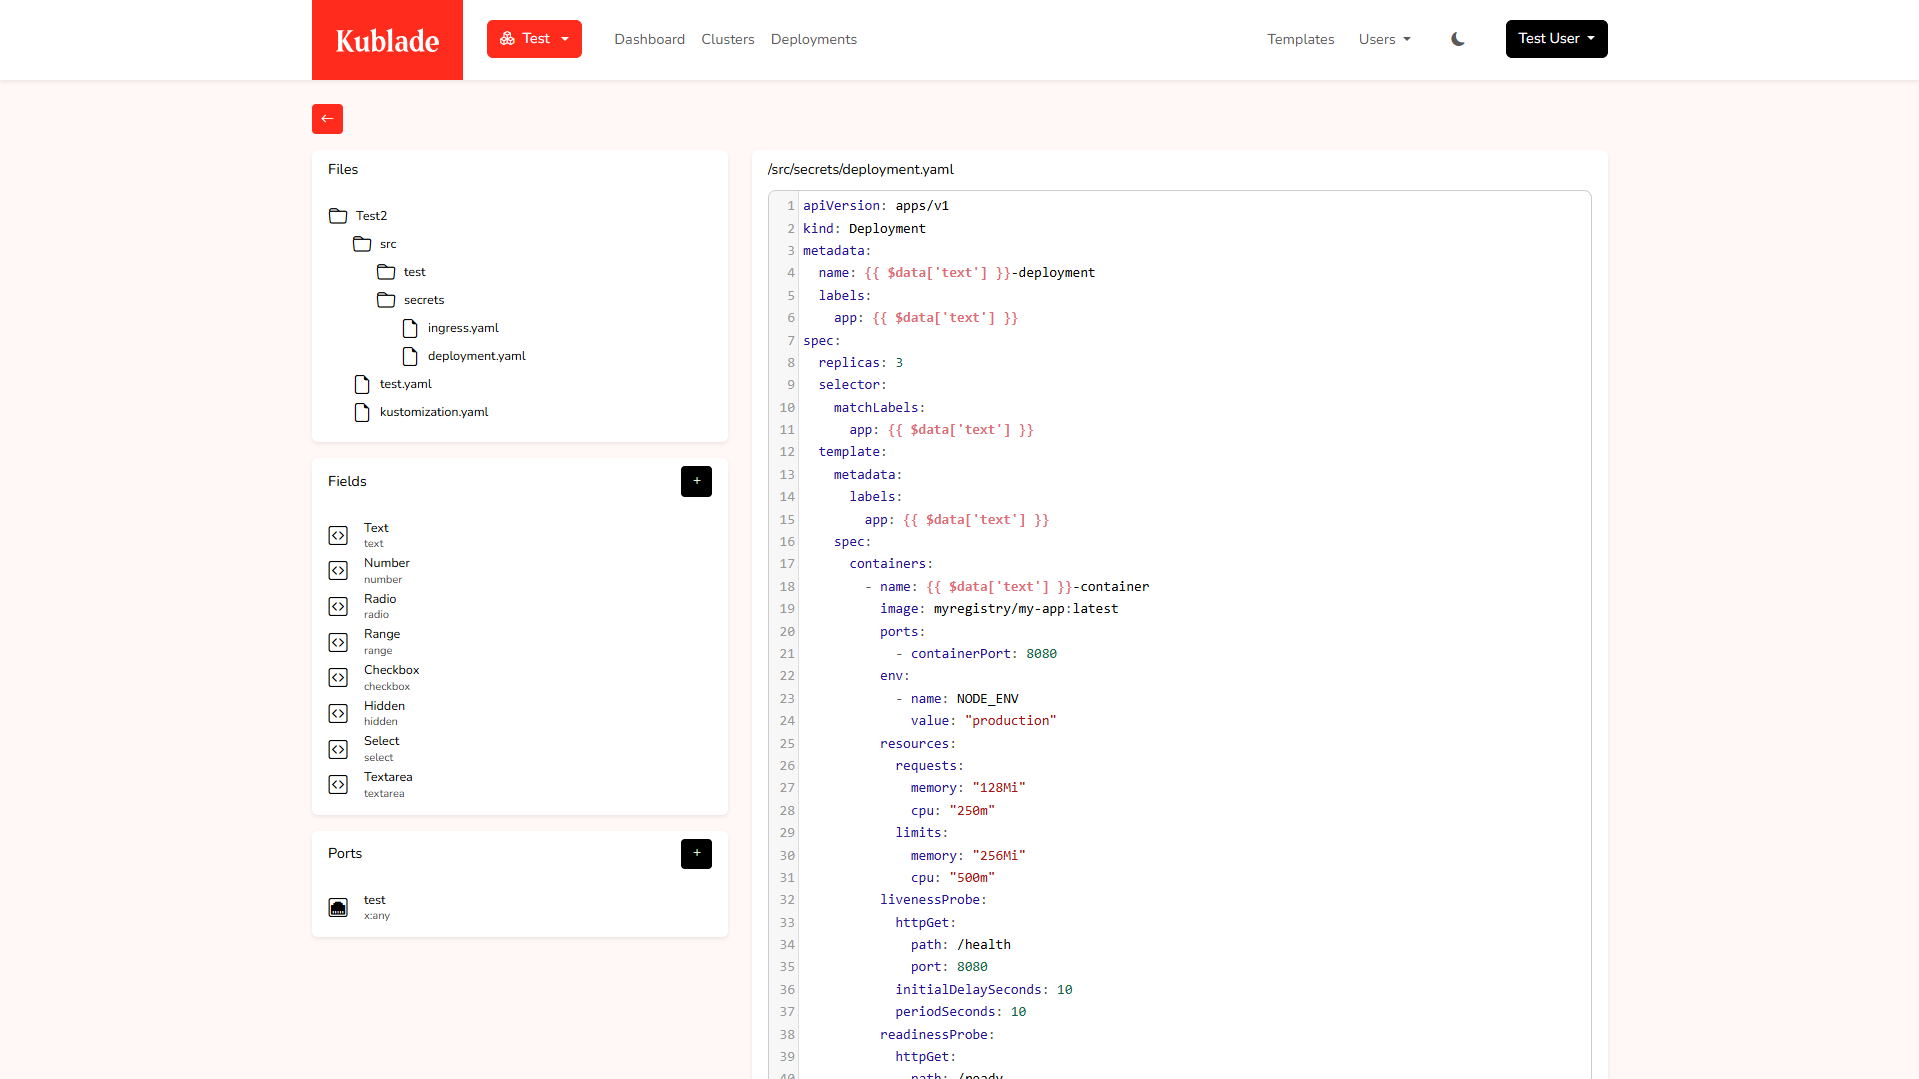
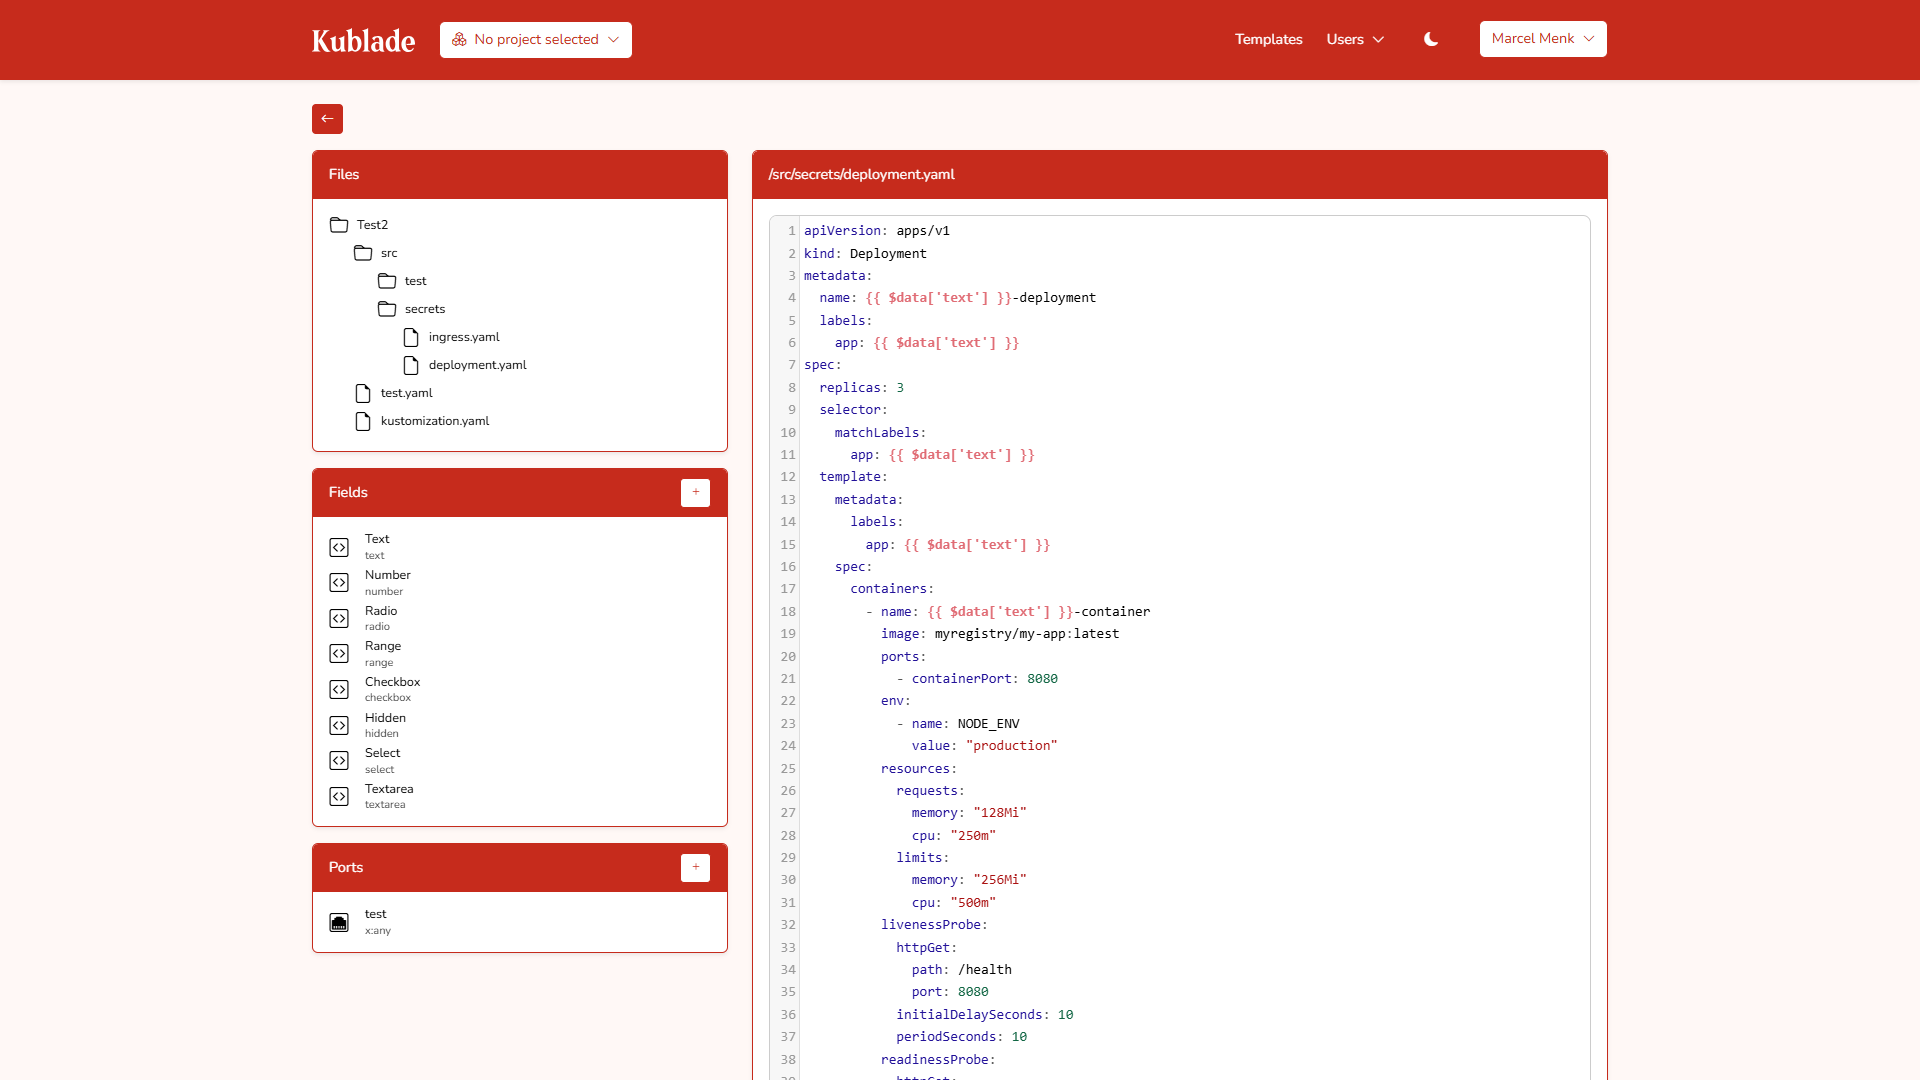
chore: modified color scheme

diff --git a/src/css/custom.css b/src/css/custom.css
@@ -6,13 +6,13 @@
 
 /* You can override the default Infima variables here. */
 :root {
-  --ifm-color-primary: #ff2b1c;
-  --ifm-color-primary-dark: #e62619;
-  --ifm-color-primary-darker: #cc2116;
-  --ifm-color-primary-darkest: #b31c13;
-  --ifm-color-primary-light: #ff4538;
-  --ifm-color-primary-lighter: #ff5e53;
-  --ifm-color-primary-lightest: #ff7a71;
+  --ifm-color-primary: #c62b1c;
+  --ifm-color-primary-dark: #b12617;
+  --ifm-color-primary-darker: #9c2114;
+  --ifm-color-primary-darkest: #801a10;
+  --ifm-color-primary-light: #d44e41;
+  --ifm-color-primary-lighter: #e07870;
+  --ifm-color-primary-lightest: #ed9f98;
   --ifm-code-font-size: 95%;
   --ifm-font-family-base: 'Nunito', sans-serif;
   --ifm-menu-color: #ffffff;
@@ -21,18 +21,18 @@
 }
 
 [data-theme='dark'] {
-  --ifm-color-primary: #ff6a61;
-  --ifm-color-primary-dark: #ff574c;
-  --ifm-color-primary-darker: #ff3c31;
-  --ifm-color-primary-darkest: #ff2b1c;
-  --ifm-color-primary-light: #ff8179;
-  --ifm-color-primary-lighter: #ff9b94;
-  --ifm-color-primary-lightest: #ffb7b1;
+  --ifm-color-primary: #c62b1c;
+  --ifm-color-primary-dark: #b12617;
+  --ifm-color-primary-darker: #9c2114;
+  --ifm-color-primary-darkest: #801a10;
+  --ifm-color-primary-light: #d44e41;
+  --ifm-color-primary-lighter: #e07870;
+  --ifm-color-primary-lightest: #ed9f98;
   --docusaurus-highlighted-code-line-bg: rgba(0, 0, 0, 0.3);
 }
 
 .menu {
-  background: linear-gradient(135deg, #ff2b1c, #b21911);
+  background: linear-gradient(135deg, #c62b1c, #801a10);
 }
 
 .menu__caret:before {
@@ -44,7 +44,7 @@
 }
 
 .hero {
-  background: linear-gradient(135deg, #ff2b1c, #b21911);
+  background: linear-gradient(135deg, #c62b1c, #801a10);
   overflow: hidden;
   padding: 7.5rem 0 !important;
   position: relative;

diff --git a/docusaurus.config.ts b/docusaurus.config.ts
@@ -59,7 +59,7 @@ const config: Config = {
         // Theme Options for modifying how redoc renders them
         theme: {
           // Change with your site colors
-          primaryColor: '#ff2b1c',
+          primaryColor: '#c62b1c',
         },
       },
     ] satisfies Redocusaurus.PresetEntry,
